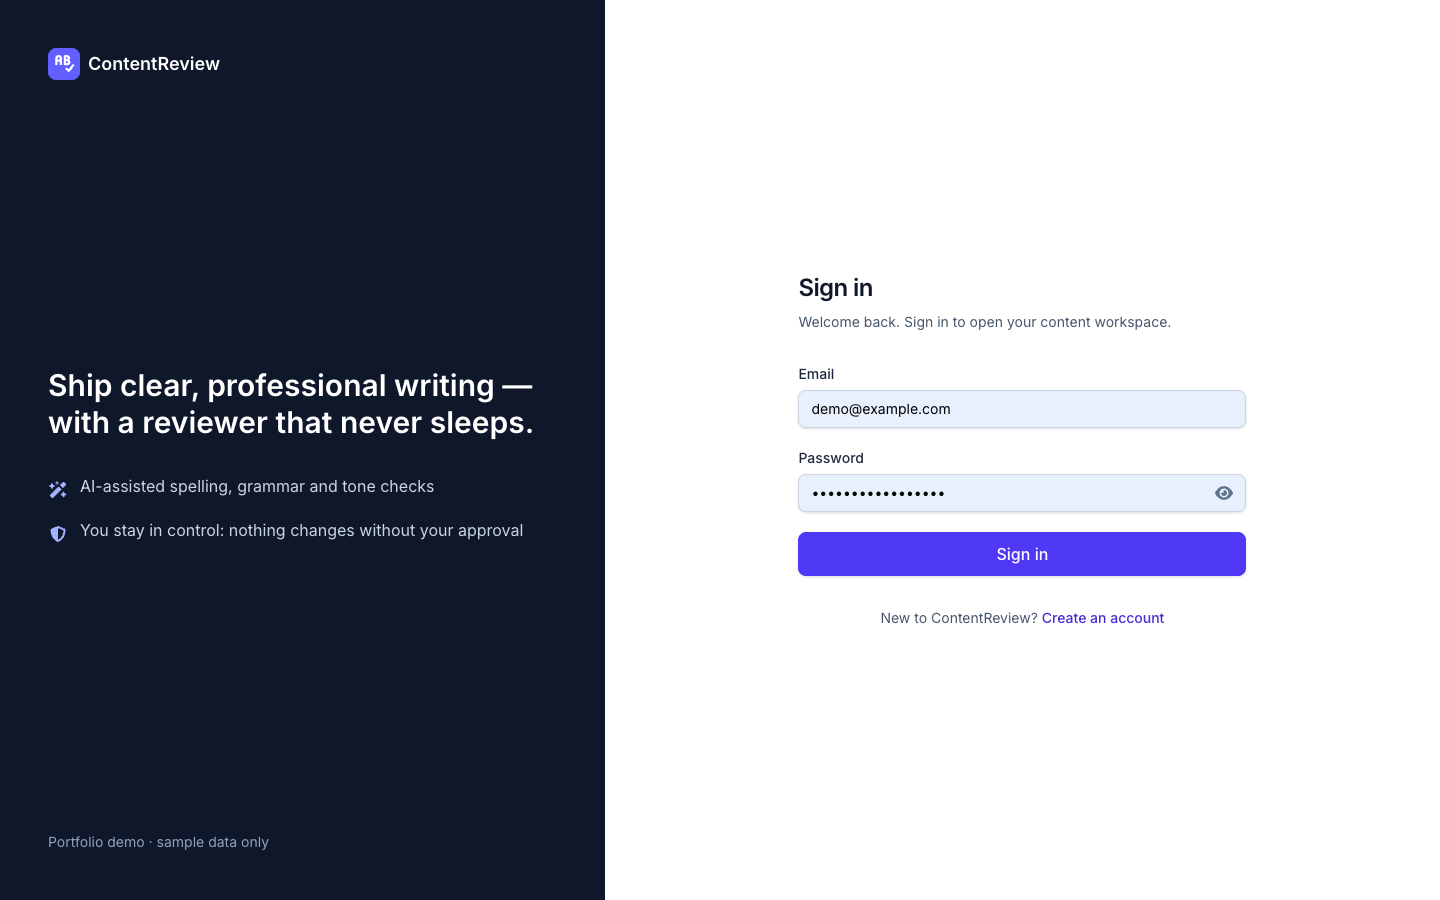
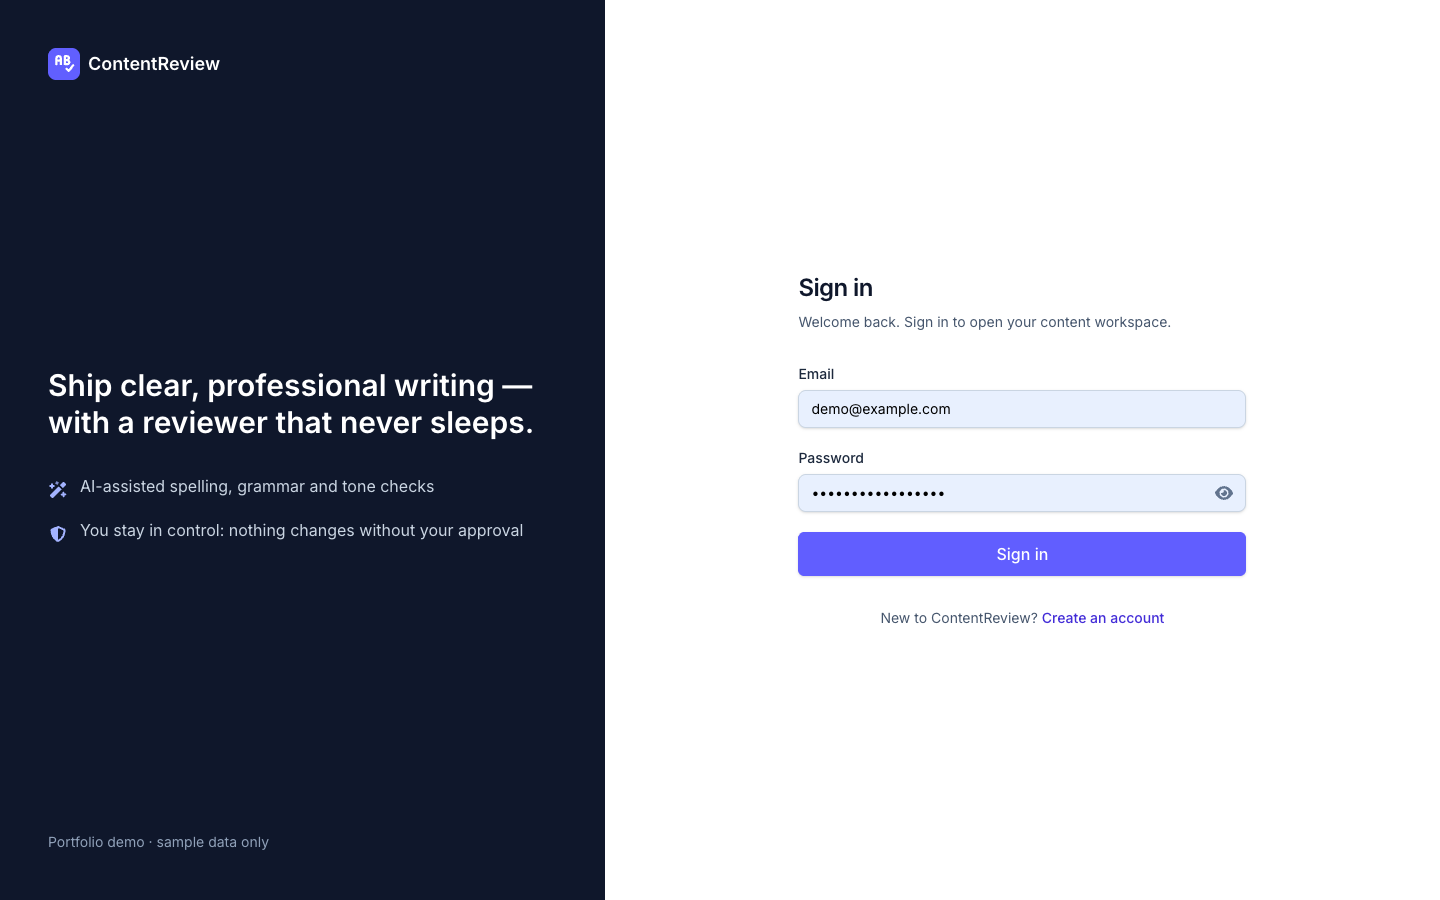
Harden mock API, fix page overflow, refresh screenshots, expand CLAUDE.md
- Mock API binds to localhost by default (HOST env) so its public demo
  accounts aren't reachable from the network.
- Login compares against a dummy hash for unknown emails so response
  time doesn't reveal which accounts exist.
- Make <main> a positioning context so sr-only text inside the document
  can't stretch the page and cause a window-level scroll.
- Retake README screenshots of the current UI.
- Document security expectations for the real backend in the README.
- Add commands, architecture and testing notes to CLAUDE.md.

Changed region(s): [[0.5312, 0.5911, 0.875, 0.6533]]

diff --git a/src/app/features/workspace/workspace-shell.ts b/src/app/features/workspace/workspace-shell.ts
@@ -81,11 +81,12 @@ function readCollapsedPreference(): boolean {
       </aside>
 
       <!-- Read-only users have nothing focusable in the content, so the scroll area itself
-           takes focus to stay keyboard-scrollable. -->
+           takes focus to stay keyboard-scrollable. The "relative" class keeps absolutely positioned
+           descendants (e.g. sr-only text) inside this scroll area instead of stretching the page. -->
       <main
         id="main-content"
         [attr.tabindex]="auth.canEdit() ? -1 : 0"
-        class="min-w-0 flex-1 overflow-y-auto focus:outline-none focus-visible:outline-2 focus-visible:-outline-offset-2 focus-visible:outline-focus"
+        class="relative min-w-0 flex-1 overflow-y-auto focus:outline-none focus-visible:outline-2 focus-visible:-outline-offset-2 focus-visible:outline-focus"
       >
         <router-outlet />
       </main>

diff --git a/CLAUDE.md b/CLAUDE.md
@@ -1,3 +1,50 @@
+# CLAUDE.md
+
+This file provides guidance to Claude Code (claude.ai/code) when working with code in this repository.
+
+## Commands
+
+- `npm run dev` — mock API (http://localhost:3000/api/v1) + Angular dev server (http://localhost:4200) together. The dev server proxies `/api` to the mock (`proxy.conf.json`), so cookies stay same-origin.
+- `npm start` — Angular dev server only (expects an API on `localhost:3000`).
+- `npm run mock-api` — mock API only; runs with `node --watch`, so editing `mock-server/` restarts it and wipes all in-memory users, sessions and reviews.
+- `npm run build` / `npx ng build --configuration development`
+- `npm run lint` — angular-eslint, including template a11y rules (e.g. click handlers on non-focusable elements fail lint).
+- `npm run test:ci` — all Vitest tests once (`npm test` watches).
+- Single spec file: `npx ng test --watch=false --include src/app/core/theme/theme.service.spec.ts`
+- Single test by name: add `--filter "part of the test name"`.
+- `npm run format` — Prettier for `src/**` and `mock-server/**` only (README and `docs/` are not Prettier-formatted).
+
+Demo accounts (seeded in `mock-server/server.mjs`): `demo@example.com` / `Demo!Passw0rd2026` (author) and `reader@example.com` / `Reader!Passw0rd2026` (read-only). Self-registered accounts are authors. Mock sessions expire after 30 minutes; `.env.example` lists knobs such as `MOCK_REVIEW_FAILURE_RATE` and `MOCK_SESSION_TTL_MS`.
+
+## Architecture
+
+Angular 22 SPA (zoneless, standalone, signals) for an AI content-review service. `docs/api-contract.md` is the backend contract and `mock-server/` implements it in memory. `docs/architecture.md` has the longer design notes; keep both docs in sync when behaviour changes.
+
+- **Auth is cookie-based.** The session is an HttpOnly `sid` cookie; `AuthService` (`core/auth`) only mirrors "who am I" and never stores a token. `provideAppInitializer` calls `restoreSession()` (`GET /auth/me`) before the first navigation, so a 401 on `/auth/me` at startup is expected. CSRF uses the double-submit `XSRF-TOKEN` cookie with Angular's `withXsrfConfiguration`.
+- **HTTP pipeline** (`app.config.ts`): `apiInterceptor` adds `withCredentials` and a timeout only to URLs under `APP_CONFIG.apiBaseUrl`, with per-request overrides via the `REQUEST_TIMEOUT_MS` context token. `authErrorInterceptor` turns protected-call 401s into a "session expired" redirect unless the request sets `SKIP_SESSION_EXPIRY`. Errors are normalised by `toApiError()` and turned into user-facing text by `ErrorHandlingService`.
+- **Roles:** `User.role` is `author` or `reader`, and anything other than `author` is read-only (`AuthService.canEdit`). Readers get `ReadOnlyDocument` instead of the editor and findings panel, the side panel hides review tools, and `authorGuard` protects `/workspace/history`. The mock API enforces this with `403 FORBIDDEN` on review writes. Guards are UX only.
+- **Workspace scoping:** `WorkspaceShell` provides `DocumentService` and `ReviewStore` (plain `@Injectable()`, not root), so all document and review state is created on login and discarded on logout or reload. Routes are lazy (`app.routes.ts` → `features/workspace/workspace.routes.ts`).
+- **ReviewStore** (`features/content-review/review.store.ts`) is the core logic:
+  - Finding ranges are UTF-16 offsets into `_reviewedText`.
+  - Accepted suggestions are a local `acceptedChanges` list and never call the API on their own.
+  - The expected document text is derived as `applyReplacements(reviewedText, accepted)`, and Accept/Undo just edit the list and write that text to `DocumentService`. This is why changes can be undone in any order.
+  - Displayed ranges come from `mapRange()`. A finding that overlaps an accepted change loses its range until that change is undone.
+  - `isStale` (document ≠ derived text) disables highlights, Accept and Undo.
+  - `saveChanges()` is the only write: it PATCHes each accepted finding to `resolved` with `forkJoin`, then commits the derived text as the new reviewed text.
+  - `actionsFor(finding)` decides what each card may offer.
+- **Text rendering** (`text-ranges.ts`, `highlighted-document.ts`): `buildSegments` splits overlapping ranges into non-overlapping segments whose text concatenates back to the original exactly. The highlighted document renders only through interpolation (never `innerHTML`), on one line of template under `prettier-ignore` because whitespace would leak into the `pre-wrap` output. Inline suggestion chips (`[data-suggestion]`) and struck-through originals (`[data-original]`) are extra DOM that specs strip before comparing text.
+- **Theming:** `ThemeService` (`core/theme`) toggles `.dark` on `<html>` and stores the choice per user (`contentReview.theme.user.<id>`) plus a device-level key that an inline script in `src/index.html` reads before first paint. Keep the key names in sync. Tailwind v4 has `@custom-variant dark` keyed to that class. Every colour utility needs a `dark:` counterpart.
+- **Design tokens** live in `src/styles.css` `@theme`: `brand-*` (indigo), `focus` (focus ring, lighter in dark mode), and the `action`/`positive`/`negative` solid button fills. These are tuned to the lightest shades that keep white text at 4.5:1, so don't lighten them further. Buttons use the `appButton` directive (`shared/components/button.directive.ts`) with variants.
+- **Accessibility is verified with axe** in both themes (CLAUDE.md requires passing AXE and WCAG AA). Absolutely positioned `sr-only` text inside a scroll container needs that container to be `relative`, otherwise it inflates the outer page's scroll height.
+
+## Testing notes
+
+- `src/app/testing/test-providers.ts` has `provideTestHttp()` (real interceptors plus `HttpTestingController`), `TEST_USER` (author), `TEST_READER`, `makeFinding()` and `makeReview()`.
+- Specs that need a signed-in user call `AuthService.login()` and flush `/api/v1/auth/login` with the fixture user.
+- The test config's `review.maxChars` is 100, so the sample document is too long to submit in tests.
+
+## Coding guidelines
+
 You are an expert in TypeScript, Angular, and scalable web application development. You write functional, maintainable, performant, and accessible code following Angular and TypeScript best practices.
 
 ## TypeScript Best Practices

diff --git a/README.md b/README.md
@@ -136,6 +136,8 @@ More detail is in [docs/architecture.md](docs/architecture.md), including the se
 - Route guards only improve the UX. **The backend authorizes every request**, and reviews are scoped to their owner.
 - The Angular app never calls the Python LLM service. Only the Node service does.
 - Document content is never rendered as HTML.
+- Roles are enforced by the API (`403 FORBIDDEN` for read-only users); hiding controls in the UI is only a convenience.
+- The **mock API is for local development only**. It binds to `localhost` by default because its demo credentials are public, and it compares passwords in constant time for unknown emails too, so login timing doesn't reveal which accounts exist. It has no rate limiting or security headers; the real backend must provide login rate limiting, a Content-Security-Policy (allowing the small inline theme script in `src/index.html` by hash, plus Google Fonts) and the usual hardening headers.
 
 ## Testing
 
